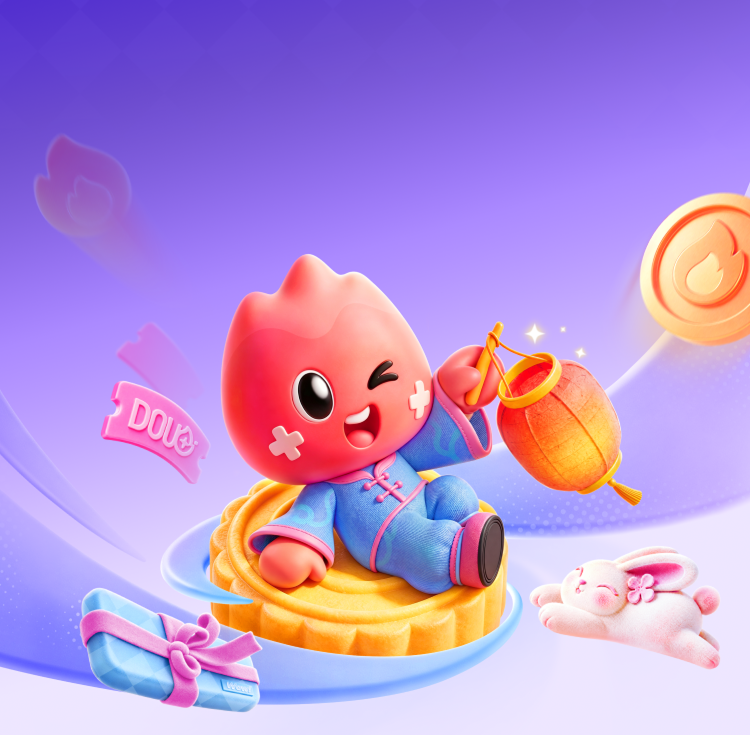
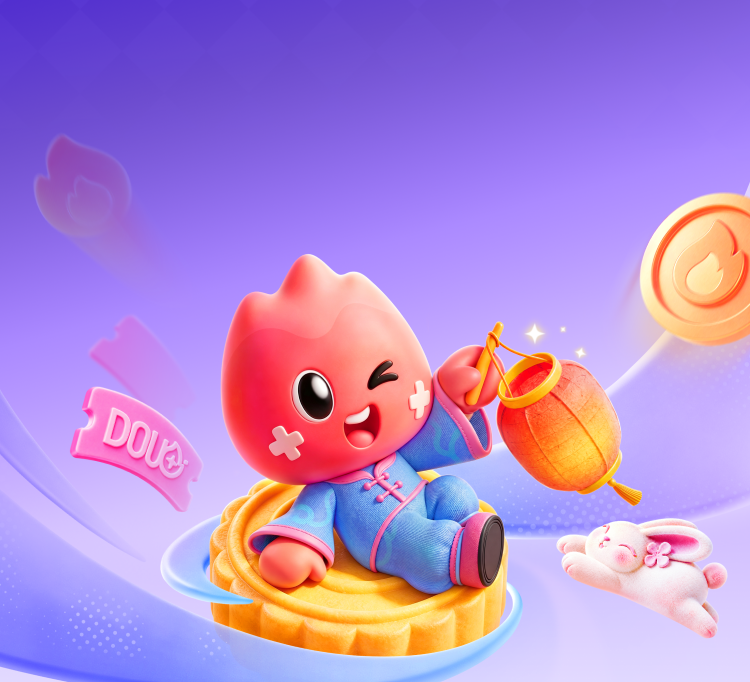
update lottery rewards and S-level visuals
Align prize presentation across states and keep the revised S-level artwork proportional.

diff --git a/projects 2/抽奖九宫格-报名前/index.tsx b/projects 2/抽奖九宫格-报名前/index.tsx
@@ -71,8 +71,8 @@ function prizeImageClass(prize: {name: string; image: string}) {
   return `${styles.prizeImage} ${prize.name.trim() === '内容诊断积分' ? styles.pointsPrizeImage : ''}`
 }
 
-function isRecommendPrize(prize: {name: string; image: string}) {
-  return prize.name.trim() === 'DOU+官方推荐机会'
+function isSingleLinePrize(prize: {name: string; image: string}) {
+  return ['DOU+官方推荐机会', 'DOU仔帆布包'].includes(prize.name.trim())
 }
 
 export default function GeneratedComponent(props: IGeneratedComponent) {
@@ -89,7 +89,7 @@ export default function GeneratedComponent(props: IGeneratedComponent) {
           <div className={styles.content}></div>
           <div className={styles.content1}>
             <div className={styles.text}>
-              <div className={styles.text__listwrap}>{prize1.name}</div>
+              <div className={`${styles.text__listwrap} ${isSingleLinePrize(prize1) ? styles.prizeNameRecommend : ''}`}>{prize1.name}</div>
             </div>
           </div>
           <div className={styles.content2}>
@@ -100,7 +100,7 @@ export default function GeneratedComponent(props: IGeneratedComponent) {
           <div className={styles.content3}></div>
           <div className={styles.content4}>
             <div className={styles.text1}>
-              <div className={styles.text1__listwrap}>{prize2.name}</div>
+              <div className={`${styles.text1__listwrap} ${isSingleLinePrize(prize2) ? styles.prizeNameRecommend : ''}`}>{prize2.name}</div>
             </div>
           </div>
           <div className={styles.content5}>
@@ -112,14 +112,14 @@ export default function GeneratedComponent(props: IGeneratedComponent) {
             <div className={styles.main}>
               <div className={styles.section}></div>
               <img src={prize3.image} className={prizeImageClass(prize3)} />
-              <div className={styles.text2}>{prize3.name}</div>
+              <div className={`${styles.text2} ${isSingleLinePrize(prize3) ? styles.prizeNameRecommend : ''}`}>{prize3.name}</div>
             </div>
           </div>
         </div>
         <div className={styles.container3}>
           <div className={styles.content8}></div>
           <div className={styles.content9}>
-            <div className={`${styles.text5} ${isRecommendPrize(prize4) ? styles.text5Recommend : ''}`}>{prize4.name}</div>
+            <div className={`${styles.text5} ${isSingleLinePrize(prize4) ? styles.prizeNameRecommend : ''}`}>{prize4.name}</div>
           </div>
           <div className={styles.content10}>
             <img src={prize4.image} className={prizeImageClass(prize4)} />
@@ -128,7 +128,7 @@ export default function GeneratedComponent(props: IGeneratedComponent) {
         <div className={styles.container4}>
           <div className={styles.content11}></div>
           <div className={styles.content12}>
-            <div className={styles.text7}>{prize5.name}</div>
+            <div className={`${styles.text7} ${isSingleLinePrize(prize5) ? styles.prizeNameRecommend : ''}`}>{prize5.name}</div>
           </div>
           <div className={styles.content13}>
             <img src={prize5.image} className={prizeImageClass(prize5)} />

diff --git a/projects 2/弹窗-中奖/index.tsx b/projects 2/弹窗-中奖/index.tsx
@@ -106,6 +106,14 @@ function resolvePrize(value: PrizeValue | undefined, fallbackName: string) {
   return {name: fallbackName, image: '', copy: ''}
 }
 
+function renderPrizeName(name: string) {
+  return name.split(/(DOU)/g).map((part, index) => (
+    part === 'DOU'
+      ? <span className={styles.douPrizeText} key={`${part}-${index}`}>{part}</span>
+      : part
+  ))
+}
+
 export default function GeneratedComponent(props: IGeneratedComponent) {
   const {
     titleText = '恭喜抽中',
@@ -169,11 +177,11 @@ export default function GeneratedComponent(props: IGeneratedComponent) {
     selectedPrize.name === 'DOU仔周边' ||
     selectedPrize.name === 'DOU仔玩偶' ||
     selectedPrize.name === 'DOU仔挂件' ||
-    selectedPrize.name === 'DOU仔周边帆布包' ||
+    selectedPrize.name === 'DOU仔帆布包' ||
     isContentDiagnosisPrize
   const isThemeColoredPrizeName = isOfficialRecommendationPrize ||
     selectedPrize.name === 'DOU仔周边' ||
-    selectedPrize.name === 'DOU仔周边帆布包' ||
+    selectedPrize.name === 'DOU仔帆布包' ||
     selectedPrize.name === 'DOU仔挂件' ||
     selectedPrize.name === 'DOU仔玩偶' ||
     selectedPrize.name === '剪映VIP' ||
@@ -232,14 +240,14 @@ export default function GeneratedComponent(props: IGeneratedComponent) {
           </div>
         ) : isDouziFamilyPackPrize ? (
           <div className={styles.familyPackTitle}>
-            恭喜抽中<span style={{color: amountColor}}>DOU仔周边！</span>
+            恭喜抽中<span style={{color: amountColor}}>{renderPrizeName('DOU仔周边！')}</span>
           </div>
         ) : (
           <>
             <div className={styles.text2} style={{color: amountColor}}>
                 <span className={styles.text2__seg0}>{amountText}</span>
             </div>
-                <div className={`${styles.text1} ${isThemeColoredPrizeName ? styles.officialRecommendationPrizeName : ''}`} style={isThemeColoredPrizeName ? {color: amountColor} : undefined}>{displayedPrizeText}</div>
+                <div className={`${styles.text1} ${isThemeColoredPrizeName ? styles.officialRecommendationPrizeName : ''}`} style={isThemeColoredPrizeName ? {color: amountColor} : undefined}>{renderPrizeName(displayedPrizeText)}</div>
           </>
         )}
       </div>

diff --git a/projects 2/抽奖九宫格-报名后/index.tsx b/projects 2/抽奖九宫格-报名后/index.tsx
@@ -90,8 +90,8 @@ function isPointsPrize(prize: {name: string; image: string}) {
   return prize.name.trim() === '内容诊断积分'
 }
 
-function isRecommendPrize(prize: {name: string; image: string}) {
-  return prize.name.trim() === 'DOU+官方推荐机会'
+function isSingleLinePrize(prize: {name: string; image: string}) {
+  return ['DOU+官方推荐机会', 'DOU仔帆布包'].includes(prize.name.trim())
 }
 
 function PrizeCard({prize}: {prize: {name: string; image: string}}) {
@@ -101,7 +101,7 @@ function PrizeCard({prize}: {prize: {name: string; image: string}}) {
         src={prize.image}
         className={`${styles.prizeImage} ${isPointsPrize(prize) ? styles.pointsPrizeImage : ''}`}
       />
-      <div className={`${styles.prizeName} ${isRecommendPrize(prize) ? styles.prizeNameRecommend : ''}`}>{prize.name}</div>
+      <div className={`${styles.prizeName} ${isSingleLinePrize(prize) ? styles.prizeNameRecommend : ''}`}>{prize.name}</div>
     </div>
   )
 }

diff --git a/projects 2/src/app.js b/projects 2/src/app.js
@@ -8,7 +8,7 @@ const GUIDED_FALLBACK_HOT_BOTTOM_SPACE = 358;
 const GUIDED_FALLBACK_HOT_PAGE_HEIGHT = 1502;
 const GUIDED_FALLBACK_CASE_BOTTOM_SPACE = 154;
 const GUIDED_FALLBACK_CASE_PAGE_HEIGHT = 1759;
-const GUIDED_S_LEVEL_BACKGROUND = "#EDE5FF";
+const GUIDED_S_LEVEL_BACKGROUND = "#E2DCFF";
 const DEFAULT_TRAFFIC_COUPON_THRESHOLD = "00";
 const DEFAULT_LOTTERY_PRIZE_COUNT = 3;
 const MAX_LOTTERY_PRIZE_COUNT = 8;
@@ -74,7 +74,7 @@ const mockPrizeLibrary = [
   },
   {
     id: "douzi_canvas_bag",
-    name: "DOU仔周边帆布包",
+    name: "DOU仔帆布包",
     image: new URL("../九宫格-奖品库/dou仔周边帆布包.png", import.meta.url).href,
     copy: "",
   },

diff --git a/projects 2/抽奖九宫格-报名前/index.module.scss b/projects 2/抽奖九宫格-报名前/index.module.scss
@@ -183,7 +183,7 @@
 }
 
 .pointsPrizeImage {
-  transform: translateX(18px);
+  transform: translateX(6px);
 }
 .content2 .prizeImage,
 .content5 .prizeImage,
@@ -262,9 +262,11 @@
   justify-content: center;
   flex-wrap: wrap;
 }
-.text5Recommend {
-  letter-spacing: -0.1em;
-  white-space: nowrap;
+.prizeNameRecommend {
+  letter-spacing: -0.1em !important;
+  white-space: nowrap !important;
+  word-break: keep-all !important;
+  flex-wrap: nowrap !important;
 }
 .content10 {
   position: absolute;

diff --git a/projects 2/抽奖九宫格-报名后/index.module.scss b/projects 2/抽奖九宫格-报名后/index.module.scss
@@ -53,7 +53,7 @@
 }
 
 .pointsPrizeImage {
-  transform: translateX(18px);
+  transform: translateX(6px);
 }
 
 .prizeName {
@@ -80,8 +80,10 @@
   flex-wrap: wrap;
 }
 .prizeNameRecommend {
-  letter-spacing: -0.1em;
-  white-space: nowrap;
+  letter-spacing: -0.1em !important;
+  white-space: nowrap !important;
+  word-break: keep-all !important;
+  flex-wrap: nowrap !important;
 }
 
 .container4 {

diff --git a/projects 2/S级-中秋头图/index.module.scss b/projects 2/S级-中秋头图/index.module.scss
@@ -1,14 +1,15 @@
 .page {
   position: relative;
   width: 750px;
-  height: 735px;
+  height: 682px;
 }
 .image {
   width: 750px;
-  height: 735px;
+  height: 682px;
   position: absolute;
   top: 0px;
   left: 0px;
+  object-fit: contain;
 }
 .wrap {
   position: absolute;

diff --git a/projects 2/弹窗-中奖/index.module.scss b/projects 2/弹窗-中奖/index.module.scss
@@ -208,6 +208,12 @@
 .officialRecommendationPrizeName {
   color: inherit;
 }
+.douPrizeText {
+  font-family: "Douyin Sans";
+  font-size: 56px;
+  font-weight: 700;
+  -webkit-text-stroke: 1px currentColor !important;
+}
 .subText {
   position: absolute;
   top: 388px;
